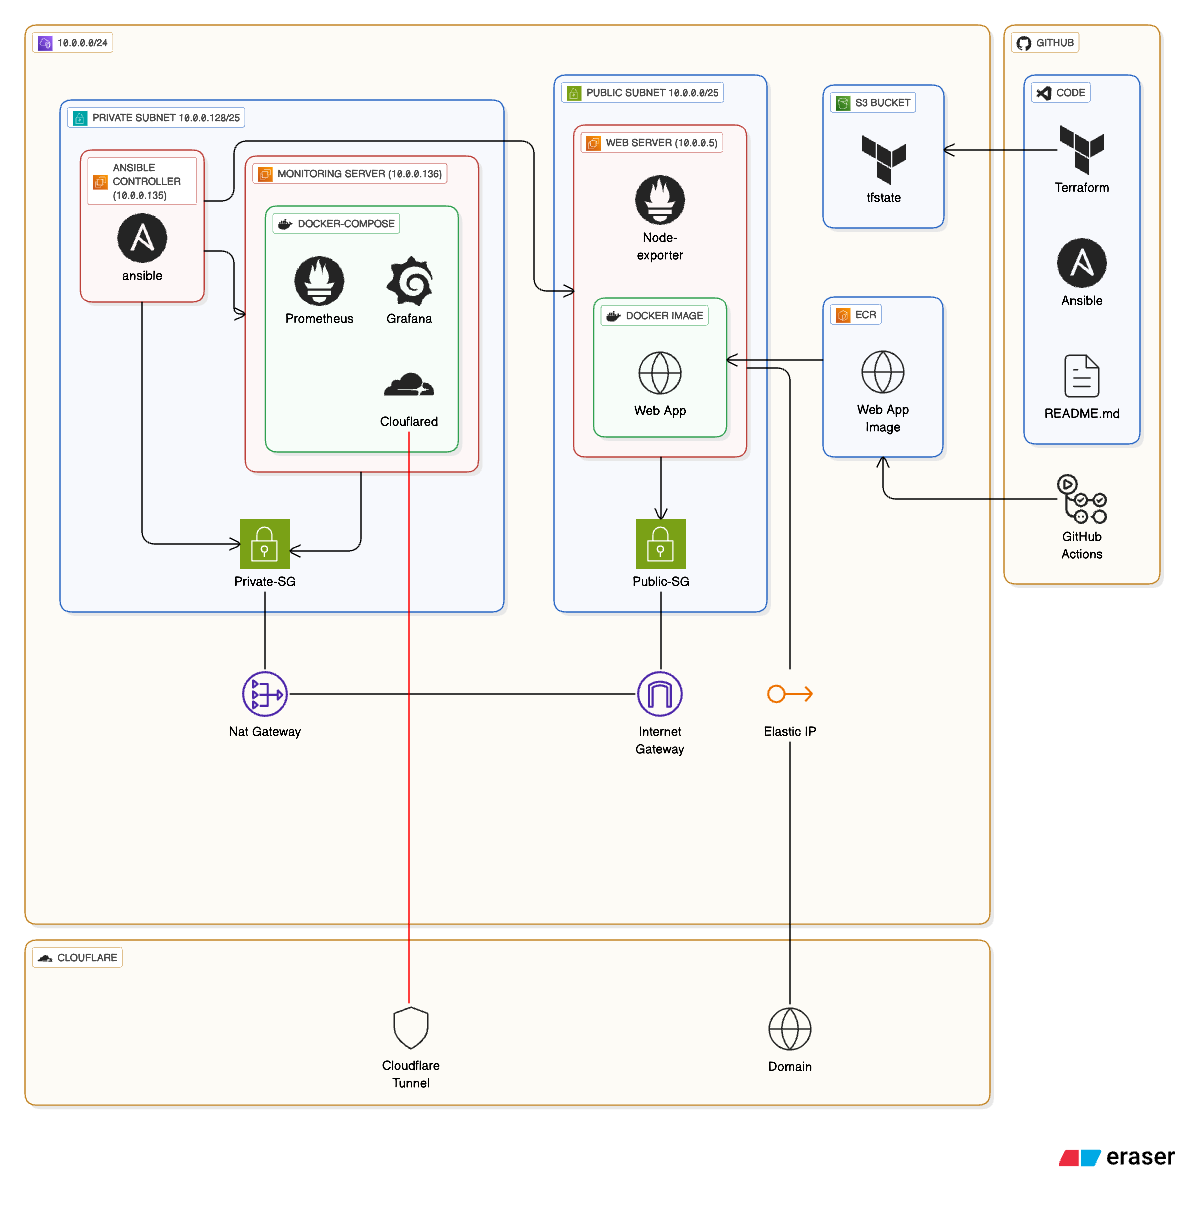
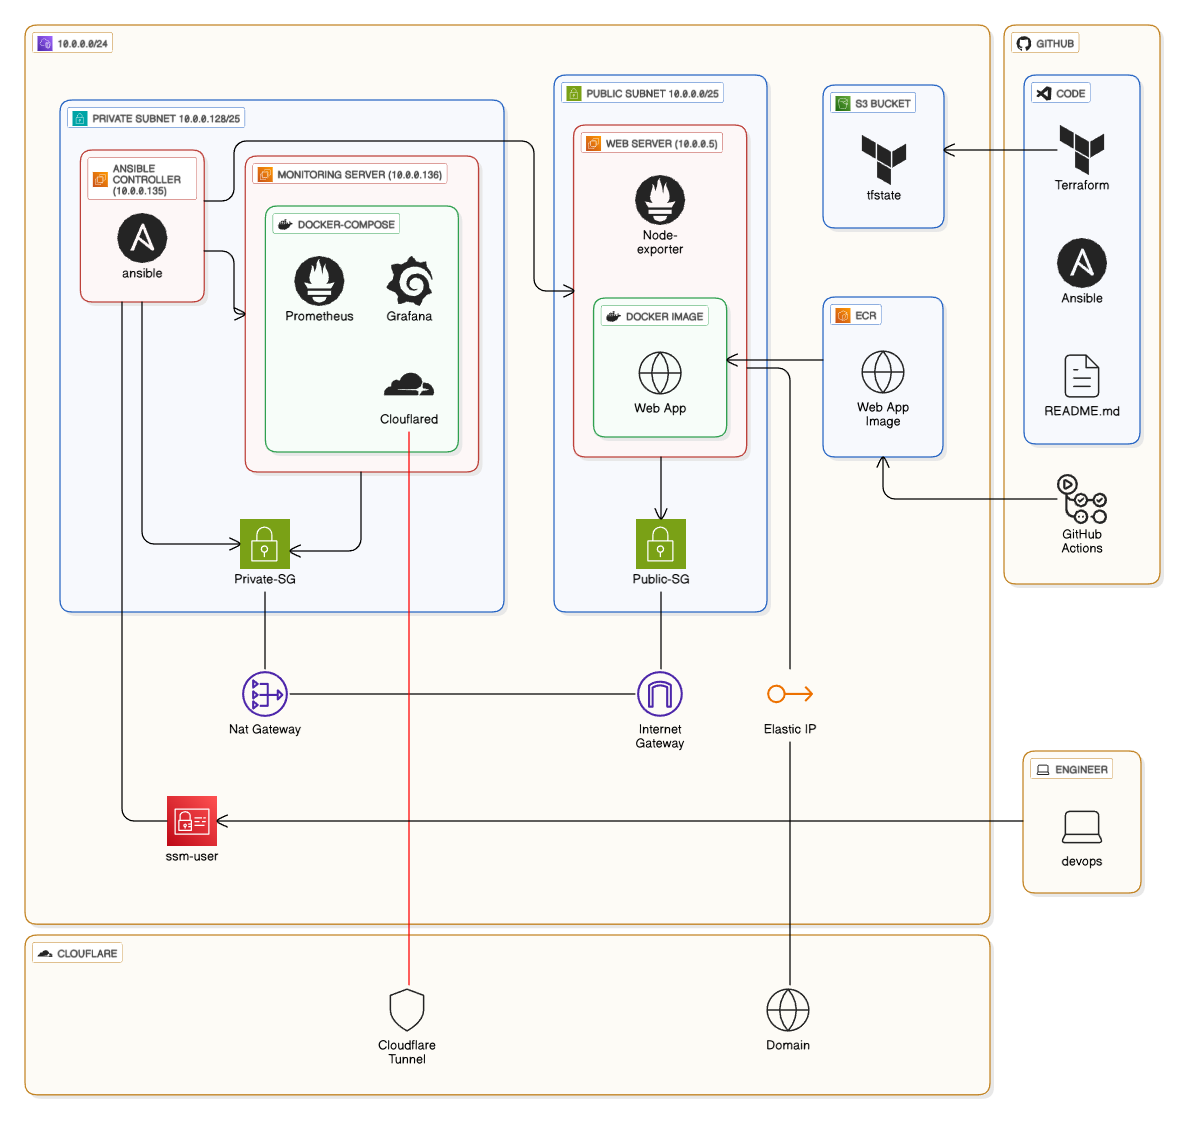
Final Fix

diff --git a/README.md b/README.md
@@ -1,24 +1,161 @@
 # Project Name : Trust Me, I’m a DevOps Engineer
 
-## 🏗 1. Project Overview & Architecture
+## 🏗 1. Project Overview & Design Philosophy
 
-This project demonstrate a production-style Devops implementation on AWS using Infrastructure As Code (Terraform), configuration management (Ansible), containerization (Docker), monitoring (Prometheus & Grafana) and secure access patterns.
+This project implements a **secure, scalable, and fully automated cloud environment** on AWS, designed and delivered using modern DevOps practices.
+
+The architecture is intentionally built around **Least Privilege** and **Defense in Depth** principles. All control-plane components (configuration management, monitoring, and administration) are isolated within private subnets and are **never directly exposed to the public internet**.Public exposure is strictly limited to the application entry point and tightly controlled.
+
 
 <p style="text-align: center;">
   <img src="./asset/diagram.png" alt="Architecture diagram" style="display: block; margin-left: auto; margin-right: auto; max-width: 100%;" />
-  <em>Diagram 1: Architecure Diagram</em>
+  <em>Diagram 1: Architecture Diagram</em>
 </p>
 
-## 🔗 2. Quick Links
+### Core Technical Stack:
+- **Infrastructure as Code (IaC):** Terraform (Modularized infrastructure provisioning)
+- **Configuration Management:** Ansible (Idempotent configuration & application lifecycle)
+- **Containerization:** Docker (Containerized service delivery)
+- **Observability:** Prometheus & Grafana (System-wide metrics & visualization)
+- **Security & Access:**  
+  - Cloudflare Zero Trust (secure tunneling)  
+  - AWS Systems Manager (SSM) (agent-based access and operations)
 
-1. [Web application](https://web.cheamirul.site)
-2. [Monitoring](https://monitoring.cheamirul.site)
-3. [GitHub Repo](https://github.com/cheamirul/devops-bootcamp-project)
+## 🔗 2. Deployment Endpoints
 
-## 🛠 3. Technical Stack
+| Component | Access Method | URL |
+|----------|---------------|-----|
+| Web Application | Public (Elastic IP) | https://web.cheamirul.site |
+| Monitoring (Grafana) | Cloudflare Tunnel | https://monitoring.cheamirul.site |
+| GitHub Repository | GitHub | https://github.com/cheamirul/devops-bootcamp-project |
 
-## ⚙ 4. Implementation Details
+## 🛠 3. Infrastructure Provisioning (Terraform)
 
-## 🤖 5. CI/CD Pipeline
+The infrastructure is fully defined in HCL and managed via Terraform to ensure reproducibility across environments.
 
-## 💡 6. Challenges & Solutions
+### 3.1 State Management
+
+- Backend: Amazon S3 is used to store Terraform state as a single source of truth.
+- Consistency: Remote state management helps prevent configuration drift and supports safe collaboration.
+
+### 3.2 Network Architecture
+
+- VPC: `10.0.0.0/24`
+- Public Subnet: `10.0.0.0/25`
+- Private Subnet: `10.0.0.128/25`
+- Internet Gateway attached to the public subnet
+- NAT Gateway enables outbound internet access for private instances without exposing them publicly
+
+This layout enforces a clear separation between **internet-facing workloads** and **internal management components**.
+
+### 3.3 Security Groups
+
+**Public Security Group**
+- Port 80: Allowed from any IP (HTTP access)
+- Port 22: Allowed only from within the VPC CIDR
+- Port 9100: Allowed only from within the VPC CIDR (Prometheus Node Exporter)
+
+**Private Security Group**
+- Port 22: Allowed only from within the VPC CIDR
+
+### 3.4 EC2 Instances
+
+| Server | Subnet | Private IP | Public Access |
+|------|------|----------|--------------|
+| Web Server | Public | 10.0.0.5 | Elastic IP |
+| Ansible Controller | Private | 10.0.0.135 | No |
+| Monitoring Server | Private | 10.0.0.136 | No |
+
+###  3.5 Container Registry
+
+- Amazon ECR is used as the centralized container registry.
+- Application images are built externally and pushed to ECR for deployment.
+
+## ⚙ 4. Configuration Management (Ansible)
+
+All configuration and deployment activities are executed **centrally from the Ansible Controller**, ensuring consistency and eliminating manual server configuration.
+
+### 4.1 Web Server Configuration
+
+- Docker Engine installed via Ansible
+- Web application deployed as a Docker container
+- Application exposed on port 80
+- Node Exporter installed to expose system metrics for monitoring
+
+### 4.2 Monitoring Server Configuration
+
+- Docker Engine installed via Ansible
+- Prometheus deployed using Docker
+- Grafana deployed using Docker
+- Cloudflared deployed as a Docker container to establish a secure tunnel
+
+## 🤖 5. Monitoring & Observability
+
+### 5.1 Prometheus
+
+Prometheus scrapes system-level metrics from the web server using Node Exporter, focusing on infrastructure health rather than application-specific metrics.
+
+### 5.2 Grafana
+
+Grafana visualizes:
+- CPU usage
+- Memory usage
+- Disk usage
+
+Grafana is **not publicly exposed** and is accessed only via Cloudflare Tunnel, ensuring secure and controlled access.
+
+## 💡 6. Access & Connectivity
+
+### 6.1 AWS Systems Manager (SSM)
+- Enabled on all EC2 instances
+- Used for secure access, troubleshooting, and operational tasks
+- Eliminates the need for public SSH access, reducing the attack surface
+
+### 6.2 Ansible Connectivity
+- Ansible connects to servers using private IP addresses
+- SSH is used exclusively within the private network boundary
+
+##  🌐 7. Domain & Cloudflare Configuration
+
+The domain is managed via Cloudflare
+
+### Subdomains
+- `web.cheamirul.site` → Web Server Elastic IP
+- `monitoring.cheamirul.site` → Cloudflare Tunnel endpoint
+
+Monitoring server has no public IP and is not directly exposed.
+
+## 🔁 8. CI/CD Pipeline
+
+### 8.1 Documentation Deployment
+- GitHub Pages is enabled
+- Documentation is automatically published on pushes to the `main` branch
+
+### 8.2 Container Image Workflow
+- GitHub Actions is used to build the Docker image
+- Image is pushed to Amazon ECR
+- Workflow is triggered manually to maintain deployment control
+
+## 🧭 9. High-Level Deployment Flow
+
+The project was implemented following the sequence below:
+
+1. Generate SSH key pair and put in ansible directory as ansible-key.pem. 
+2. Provisioned AWS infrastructure using Terraform, including networking, security groups, EC2 instances, ECR, and remote state storage.
+3. Accessed the Ansible Controller via AWS Systems Manager.
+4. Configured all servers using Ansible, including Docker installation and application deployment.
+5. Deployed the monitoring stack (Prometheus and Grafana) using Docker and configured metric scraping.
+6. Configured Cloudflare DNS and Cloudflare Tunnel for secure external access.
+7. Enabled GitHub Pages to publish documentation automatically.
+
+## ✅ Summary
+
+This project demonstrates a complete DevOps workflow covering:
+- Infrastructure provisioning via Terraform
+- Configuration management via Ansible
+- Containerized application deployment
+- Secure, private monitoring with Prometheus and Grafana
+- Controlled access using Cloudflare Tunnel and AWS SSM
+- Automated documentation publishing
+
+All components are implemented according to the project requirements and follow industry-standard DevOps practices.
